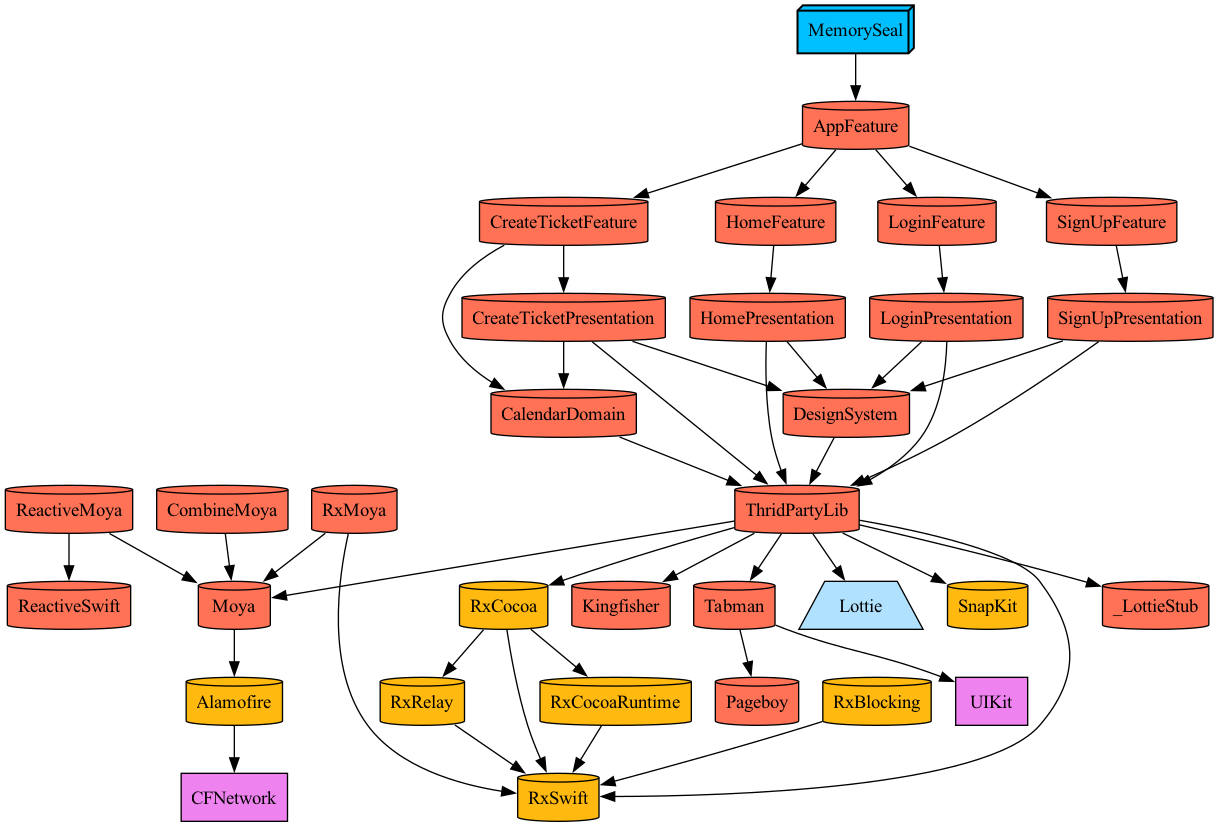
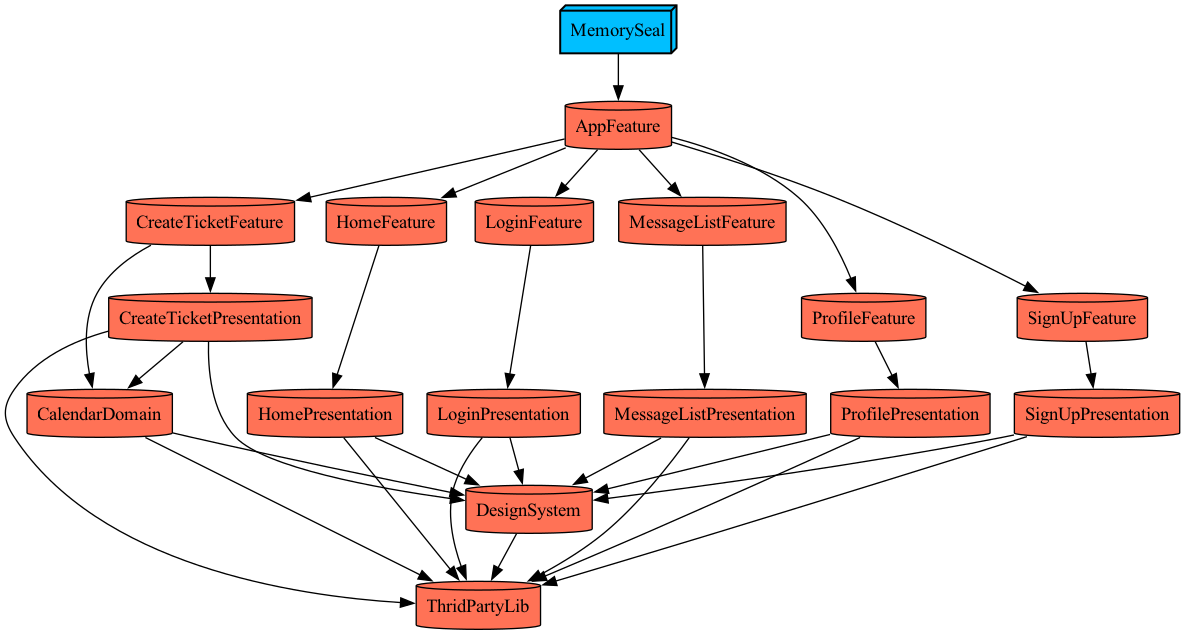
Feature: 메모리 리스트 화면 퍼블리싱

diff --git a/Projects/Presentation/MessageListPresentation/Sources/Controller/MessageListViewController.swift b/Projects/Presentation/MessageListPresentation/Sources/Controller/MessageListViewController.swift
@@ -1,0 +1,97 @@
+//
+//  MessageListViewController.swift
+//  MessageListPresentation
+//
+//  Created by 선민재 on 9/22/25.
+//  Copyright © 2025 MemorySeal. All rights reserved.
+//
+
+import UIKit
+import SnapKit
+import RxSwift
+import RxCocoa
+
+import DesignSystem
+
+public final class MessageListViewController: UIViewController {
+    private let rxViewDidLoad: PublishRelay<Void> = .init()
+    
+    private let viewModel: MessageListViewModel
+    private let disposeBag: DisposeBag = DisposeBag()
+    
+    private let navigationView: MemorySealNavigationView = {
+        let view = MemorySealNavigationView()
+        view.setTitle("프로필")
+        return view
+    }()
+    
+    private let userListCollectionView: UICollectionView = {
+        let collectionViewFlowLayout = UICollectionViewFlowLayout()
+        collectionViewFlowLayout.scrollDirection = .horizontal
+        collectionViewFlowLayout.itemSize = .init(width: 80, height: 102)
+        let collectionView = UICollectionView()
+        collectionView.register(
+            UserListCollectionViewCell.self,
+            forCellWithReuseIdentifier: UserListCollectionViewCell.reuseIdentifier
+        )
+        return collectionView
+    }()
+    
+    public init(with viewModel: MessageListViewModel) {
+        self.viewModel = viewModel
+        super.init(nibName: nil, bundle: nil)
+    }
+    
+    required init?(coder: NSCoder) {
+        fatalError("init(coder:) has not been implemented")
+    }
+    
+    public override func viewDidLoad() {
+        super.viewDidLoad()
+        
+        self.addSubViews()
+        self.setLayout()
+        
+        self.bindViewModel()
+        self.rxViewDidLoad.accept(())
+    }
+    
+}
+
+extension MessageListViewController {
+    private func bindViewModel() {
+        let input = MessageListViewModel.Input(rxViewDidLoad: rxViewDidLoad)
+        let output = viewModel.transform(input)
+        
+        output.userList
+            .bind(to: userListCollectionView.rx.items(
+                cellIdentifier: UserListCollectionViewCell.reuseIdentifier,
+                cellType: UserListCollectionViewCell.self
+            )) { (index, item, cell) in
+                cell.configure(userNickName: item)
+            }
+            .disposed(by: disposeBag)
+    }
+}
+
+extension MessageListViewController {
+    private func addSubViews() {
+        view.addSubview(navigationView)
+        view.addSubview(userListCollectionView)
+    }
+    
+    private func setLayout() {
+        navigationView.snp.makeConstraints {
+            $0.top.equalTo(view.safeAreaLayoutGuide.snp.top)
+            $0.leading.trailing.equalToSuperview()
+            $0.height.equalTo(56)
+        }
+        
+        userListCollectionView.snp.makeConstraints {
+            $0.top.equalTo(navigationView.snp.bottom)
+            $0.leading.equalToSuperview().offset(20)
+            $0.trailing.equalToSuperview()
+            $0.height.equalTo(102)
+        }
+    }
+}

diff --git a/Projects/Presentation/MessageListPresentation/Sources/View/UserListCollectionViewCell.swift b/Projects/Presentation/MessageListPresentation/Sources/View/UserListCollectionViewCell.swift
@@ -1,0 +1,66 @@
+//
+//  UserListCollectionViewCell.swift
+//  MessageListPresentation
+//
+//  Created by 선민재 on 9/22/25.
+//  Copyright © 2025 MemorySeal. All rights reserved.
+//
+
+import UIKit
+import SnapKit
+
+import DesignSystem
+
+final class UserListCollectionViewCell: UICollectionViewCell {
+    private let userProfileImageView: UIImageView = {
+        let imageView = UIImageView()
+        imageView.image = DesignSystemAsset.ImageAssets.userDefaultProfileImage.image
+        return imageView
+    }()
+    
+    private let userNickNameLabel: UILabel = {
+        let label = UILabel()
+        label.text = "뿡빵삥"
+        label.textAlignment = .center
+        label.textColor = DesignSystemAsset.ColorAssests.grey5.color
+        label.font = DesignSystemFontFamily.Pretendard.regular.font(size: 12)
+        return label
+    }()
+    
+    override init(frame: CGRect) {
+        super.init(frame: frame)
+        
+        self.addSubviews()
+        self.setLayout()
+    }
+    
+    required init?(coder: NSCoder) {
+        fatalError("init(coder:) has not been implemented")
+    }
+}
+
+extension UserListCollectionViewCell {
+    func configure(userNickName: String) {
+        userNickNameLabel.text = userNickName
+    }
+}
+
+extension UserListCollectionViewCell {
+    private func addSubviews() {
+        addSubview(userProfileImageView)
+        addSubview(userNickNameLabel)
+    }
+    
+    private func setLayout() {
+        userProfileImageView.snp.makeConstraints {
+            $0.top.leading.trailing.equalToSuperview()
+            $0.width.height.equalTo(80)
+        }
+        
+        userNickNameLabel.snp.makeConstraints {
+            $0.top.equalTo(userProfileImageView.snp.bottom).offset(8)
+            $0.leading.trailing.equalToSuperview()
+            $0.bottom.equalToSuperview()
+        }
+    }
+}

diff --git a/Projects/Presentation/MessageListPresentation/Sources/ViewModel/MessageListViewModel.swift b/Projects/Presentation/MessageListPresentation/Sources/ViewModel/MessageListViewModel.swift
@@ -1,0 +1,38 @@
+//
+//  MessageListViewModel.swift
+//  MessageListPresentation
+//
+//  Created by 선민재 on 9/22/25.
+//  Copyright © 2025 MemorySeal. All rights reserved.
+//
+
+import RxSwift
+import RxCocoa
+
+public final class MessageListViewModel {
+    private let disposeBag: DisposeBag = DisposeBag()
+    private let userList: PublishRelay<[String]> = .init()
+    
+    struct Input {
+        let rxViewDidLoad: PublishRelay<Void>
+    }
+    
+    struct Output {
+        let userList: PublishRelay<[String]>
+    }
+    
+    func transform(_ input: Input) -> Output {
+        input.rxViewDidLoad
+            .withUnretained(self)
+            .subscribe(onNext: { (self, _) in
+                self.userList.accept(["삥빵뽕뽕", "뿡뿡뿡", "삥삥삥"])
+            })
+            .disposed(by: disposeBag)
+        
+        return Output(userList: userList)
+    }
+    
+    public init() {
+        
+    }
+}

diff --git a/Tuist/ProjectDescriptionHelpers/Dependency+Project.swift b/Tuist/ProjectDescriptionHelpers/Dependency+Project.swift
@@ -68,6 +68,11 @@ public extension TargetDependency.Feature {
         target: "ProfileFeature",
         path: .relativeToRoot("Projects/Feature/ProfileFeature")
     )
+    
+    static let MessageListFeature = TargetDependency.project(
+        target: "MessageListFeature",
+        path: .relativeToRoot("Projects/Feature/MessageListFeature")
+    )
 }
 
 public extension TargetDependency.Presentation {
@@ -100,6 +105,11 @@ public extension TargetDependency.Presentation {
     static let ProfilePresentation = TargetDependency.project(
         target: "ProfilePresentation",
         path: .relativeToRoot("Projects/Presentation/ProfilePresentation")
+    )
+    
+    static let MessageListPresentation = TargetDependency.project(
+        target: "MessageListPresentation",
+        path: .relativeToRoot("Projects/Presentation/MessageListPresentation")
     )
 }
 

diff --git a/Projects/Feature/MessageListFeature/Sources/Coordinator/MessageListCoordinator.swift b/Projects/Feature/MessageListFeature/Sources/Coordinator/MessageListCoordinator.swift
@@ -1,0 +1,30 @@
+//
+//  MessageListCoordinator.swift
+//  ProjectDescriptionHelpers
+//
+//  Created by 선민재 on 5/30/25.
+//
+
+import UIKit
+
+import MessageListPresentation
+
+public final class MessageListCoordinator {
+    private let navigationController: UINavigationController
+    private let createTicketDIContainer: MessageListDIContainer = .init()
+    
+    public init(
+        with navigationController: UINavigationController
+    ) {
+        self.navigationController = navigationController
+    }
+    
+    public func start() {
+        let messageListViewController = createTicketDIContainer.makeMessageListViewController()
+        
+        self.navigationController.pushViewController(
+            messageListViewController,
+            animated: true
+        )
+    }
+}

diff --git a/Projects/Feature/MessageListFeature/Sources/DIContainer/MessageListDIContainer.swift b/Projects/Feature/MessageListFeature/Sources/DIContainer/MessageListDIContainer.swift
@@ -1,0 +1,21 @@
+//
+//  CreateTicketDIContainer.swift
+//  AppFeature
+//
+//  Created by 선민재 on 5/1/25.
+//  Copyright © 2025 MemorySeal. All rights reserved.
+//
+
+import Foundation
+
+import MessageListPresentation
+
+public final class MessageListDIContainer {
+    func makeMessageListViewController() -> MessageListViewController {
+        return MessageListViewController(with: makeMessageListViewModel())
+    }
+    
+    private func makeMessageListViewModel() -> MessageListViewModel {
+        return MessageListViewModel()
+    }
+}

diff --git a/Projects/Presentation/MessageListPresentation/Project.swift b/Projects/Presentation/MessageListPresentation/Project.swift
@@ -1,0 +1,19 @@
+//
+//  Project.swift
+//  ProjectDescriptionHelpers
+//
+//  Created by 선민재 on 10/28/24.
+//
+
+import ProjectDescription
+import ProjectDescriptionHelpers
+
+let project = Project.makeModule(
+    name: "MessageListPresentation",
+    product: .staticFramework,
+    dependencies: [
+        .ThridPartyLib.ThridPartyLib,
+        .Shared.DesignSystem
+    ],
+    resources: ["Resources/**"]
+)

diff --git a/Projects/Feature/MessageListFeature/Project.swift b/Projects/Feature/MessageListFeature/Project.swift
@@ -1,0 +1,17 @@
+//
+//  Project.swift
+//  Manifests
+//
+//  Created by 선민재 on 5/30/25.
+//
+
+import ProjectDescription
+import ProjectDescriptionHelpers
+
+let project = Project.makeModule(
+    name: "MessageListFeature",
+    product: .staticFramework,
+    dependencies: [
+        .Presentation.MessageListPresentation
+    ]
+)

diff --git a/Projects/Feature/AppFeature/Project.swift b/Projects/Feature/AppFeature/Project.swift
@@ -16,6 +16,7 @@ let project = Project.makeModule(
         .Feature.LoginFeature,
         .Feature.HomeFeature,
         .Feature.CreateTicketFeature,
-        .Feature.ProfileFeature
+        .Feature.ProfileFeature,
+        .Feature.MessageListFeature
     ]
 )

diff --git a/Projects/Feature/MessageListFeature/Resources/placeHolder.swift b/Projects/Feature/MessageListFeature/Resources/placeHolder.swift
@@ -1,0 +1,8 @@
+//
+//  placeHolder.swift
+//  ProjectDescriptionHelpers
+//
+//  Created by 선민재 on 9/26/24.
+//
+
+import Foundation

diff --git a/Projects/Feature/MessageListFeature/Tests/placeHolder.swift b/Projects/Feature/MessageListFeature/Tests/placeHolder.swift
@@ -1,0 +1,8 @@
+//
+//  placeHolder.swift
+//  ProjectDescriptionHelpers
+//
+//  Created by 선민재 on 9/26/24.
+//
+
+import Foundation

diff --git a/Projects/Presentation/MessageListPresentation/Resources/placeHolder.swift b/Projects/Presentation/MessageListPresentation/Resources/placeHolder.swift
@@ -1,0 +1,8 @@
+//
+//  placeHolder.swift
+//  ProjectDescriptionHelpers
+//
+//  Created by 선민재 on 9/26/24.
+//
+
+import Foundation
